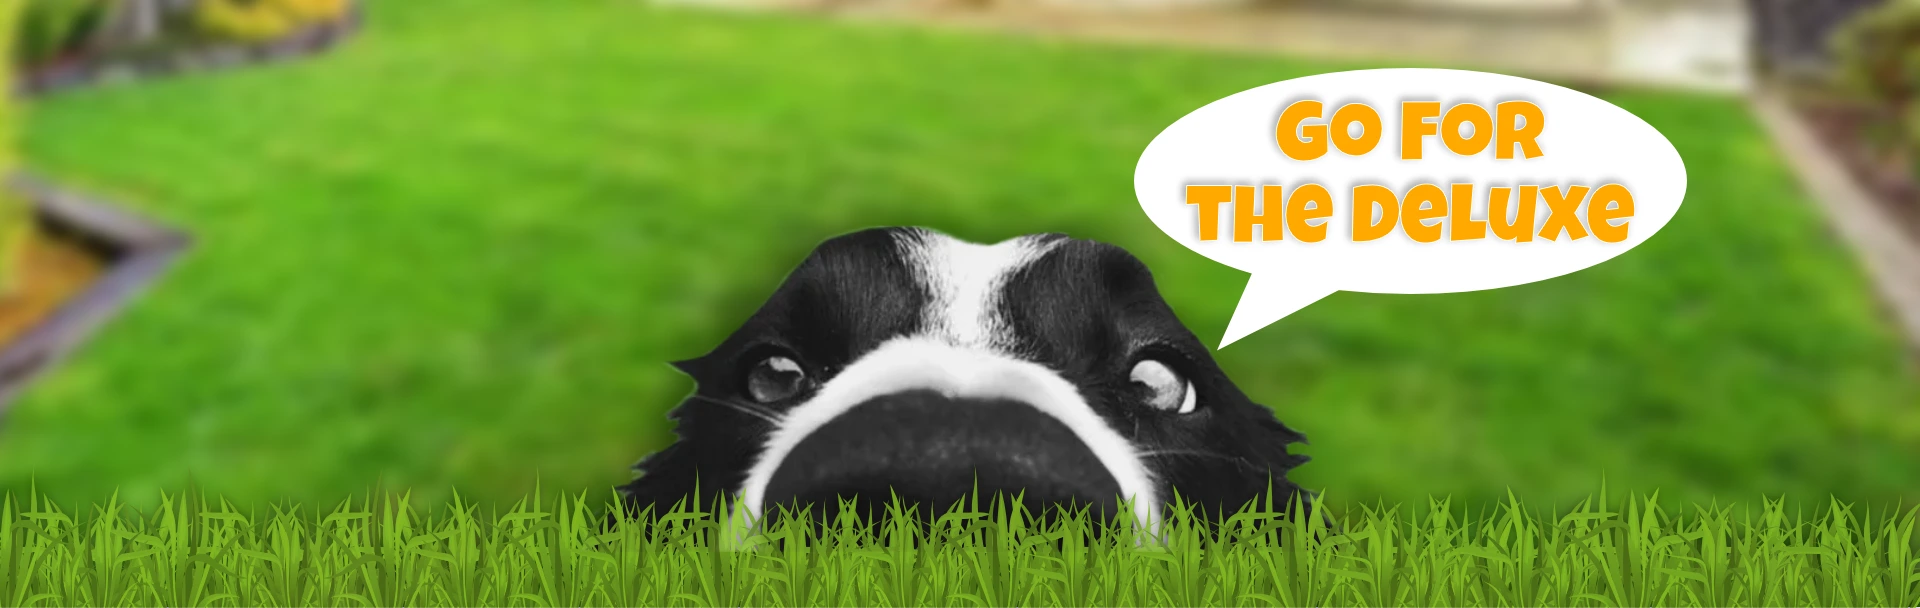
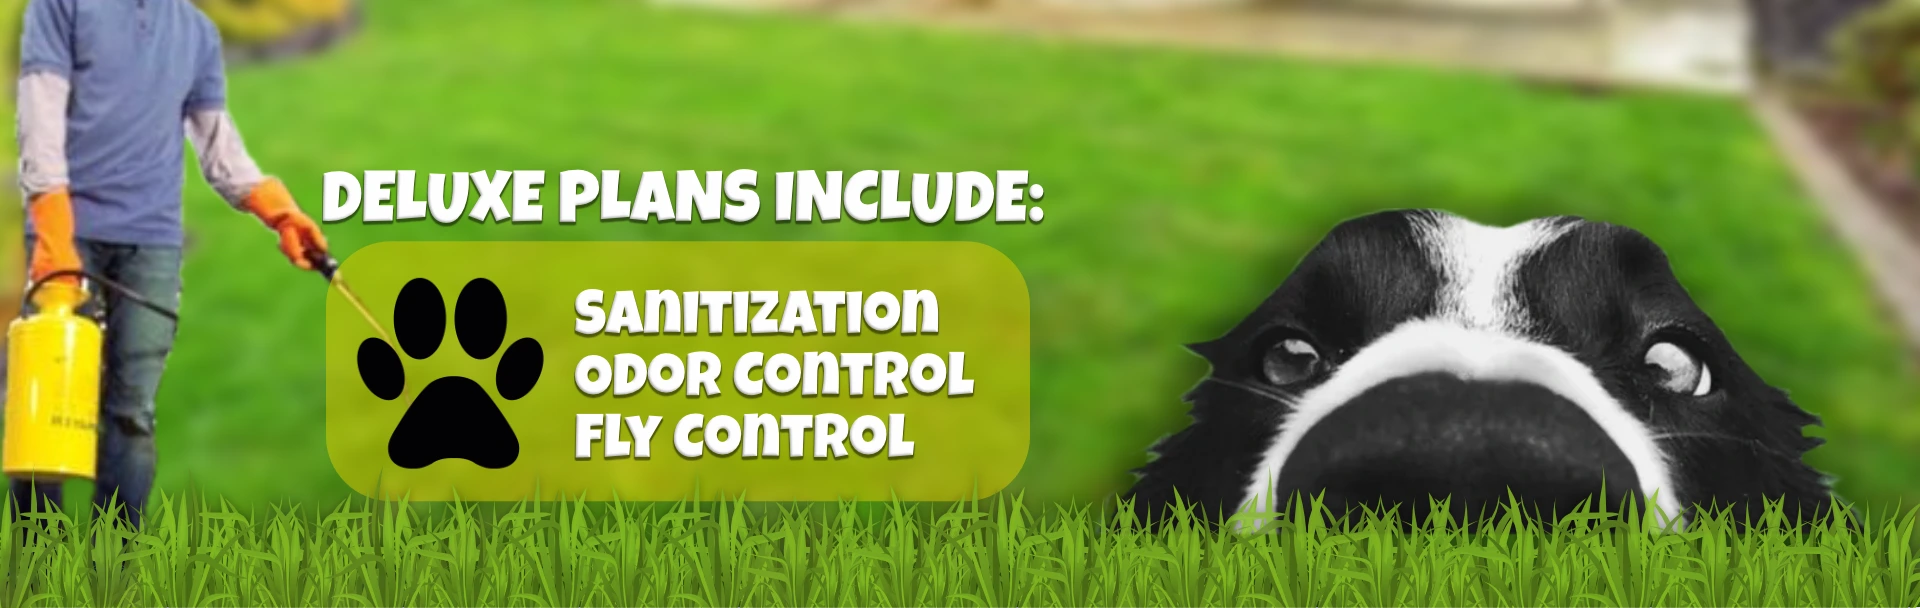
pricing

diff --git a/src/pages/xl-packages.js b/src/pages/xl-packages.js
@@ -14,7 +14,7 @@ import { AiOutlineAudioMuted } from 'react-icons/ai';
 import { StaticImage } from "gatsby-plugin-image"
 import { Helmet } from "react-helmet"
 
-const PricePage = () => {
+const XLPage = () => {
   const { language, featureOptions, proOptions  } = useSiteMetadata();
   const { showSocial } = featureOptions
   const { showProfile } = proOptions
@@ -179,7 +179,7 @@ const PricePage = () => {
   return (
     <Layout className="page">
       <Helmet>
-        <body id="body" className="utilitypage" />
+        <body id="body" className="install" />
       </Helmet>
       <Seo title={frontmatter.title} description={excerpt} />
 
@@ -331,8 +331,7 @@ style={{height:'auto', width:'100dvw', maxHeight:'100dvh', position:'relative', 
 /> */}
 
 
-
-<StaticImage src="../../static/assets/dogpoopers-nosey-deluxe-header.webp" alt="Default Image" style={{height:'auto', width:'100dvw', maxHeight:'100dvh', position:'relative', zIndex:'1', top:'0', left:'0', right:'0', border:'0px solid #888 !important', objectFit:'contain', margin:'0', zIndex:'0'}} />
+<StaticImage src="../../static/assets/dogpoopers-xl-header.webp" alt="Default Image" style={{height:'auto', width:'100dvw', maxHeight:'100dvh', position:'relative', zIndex:'1', top:'0', left:'0', right:'0', border:'0px solid #888 !important', objectFit:'contain', margin:'0'}} />
 
 
 <section id="SecondaryInfo" order="6" className="nameblock" style={{margin:'0 auto 10vh auto', padding:'1% 4%',alignContent:'center', display:'flex', textAlign:'left', justifyContent:'center', verticalAlign:'center', }}>
@@ -360,14 +359,6 @@ style={{height:'auto', width:'100dvw', maxHeight:'100dvh', position:'relative', 
               </div> */}
 
 
-
-
-
-
-
-
-
-
 <h2 id="costs" className="letter" style={{fontSize:'240%', textAlign:'center'}}>Choose Your Plan:</h2>
 <p style={{fontSize:'150%', textAlign:'center'}}>
   Cancel anytime - <u>NO</u> contracts required.
@@ -375,70 +366,10 @@ style={{height:'auto', width:'100dvw', maxHeight:'100dvh', position:'relative', 
 
 
 
-<p style={{fontSize:'150%', textAlign:'center'}}>
-  <strong>Standard Packages</strong>: 1-2 Dogs, Up to 1/4 Acre Yard 
-</p> 
 
 
 
-{/* First row */}
-<div className="flexbutt hover" style={{display:'flex', padding:'0', gap:'20px', color:'#fff'}}>
 
-<div className="flexcheek" style={{width:'33%', background: 'rgba(0,0,0,0.60)', padding:'1rem 2rem ', backdropFilter: 'blur(4px)', border:'10px double var(--theme-ui-colors-siteColor)', borderRadius:'12px', textAlign:'', alignSelf:'', }}>
-<h3 className="vartext letter" style={{color:'#fff', fontWeight:'700', fontSize:'130%', textAlign:'center'}}>One-Time Service</h3>
-<div style={{}}>A Dog Pooper technician walks and cleans your yard <strong className="highlight">once</strong>. 
-  <br />
-{/* Pay only when your site uses a LOT of data.<br />  */}
- <br />
- <div style={{textDecoration:'underline', textAlign:'center'}}>
-  <a className="button" style={{color:'#fff', fontWeight:'700'}} href="https://www.paypal.com/webapps/billing/plans/subscribe?plan_id=P-8NG870567P558582PMZN6LVQ" target="_blank" rel="noreferrer" > <strong className="highlight" style={{color:'#fff', fontWeight:'700'}}> Order Now</strong></a>
-  
-  <br /> <strong style={{color:'yellow'}}>(Deluxe Included)</strong>
-  <br />
-  </div>
- </div>
-<p style={{textDecoration:'', textAlign:'center', margin:'1rem 0'}}><strong className="highlight" >$39.99</strong> One Time</p>
-</div>
-
-<div className="flexcheek" style={{width:'33%', background: 'rgba(0,0,0,0.60)', padding:'1rem 2rem ', backdropFilter: 'blur(4px)', border:'10px double var(--theme-ui-colors-siteColorText)', borderRadius:'12px', textAlign:'', alignSelf:'', }}>
-<h3 className="vartext letter" style={{color:'#fff', fontWeight:'700', fontSize:'130%', textAlign:'center'}}>Weekly</h3>
-
-<div style={{}}>A Dog Pooper technician walks and cleans your yard <strong className="highlight">once per week</strong>. 
-  <br />
-<br />
-
- <div style={{textDecoration:'underline', textAlign:'center',}}>
-  <a className="button" href="https://www.paypal.com/webapps/billing/plans/subscribe?plan_id=P-8NG870567P558582PMZN6LVQ" target="_blank" rel="noreferrer" > <strong className="highlight" style={{color:'#fff'}}> Order Now</strong></a>
-  <br />
-  <a className="" href="https://www.paypal.com/webapps/billing/plans/subscribe?plan_id=P-8NG870567P558582PMZN6LVQ" target="_blank" rel="noreferrer" > <strong className="highlight" style={{color:'yellow'}}> Get Deluxe (only $4.99 more)</strong></a>
-  </div>
-
-  <p style={{textDecoration:'', textAlign:'center', margin:'1rem 0'}}><strong className="highlight" >$29.99</strong> per week</p>
-  
- </div>
-
-</div>
-
-<div className="flexcheek" style={{width:'33%', background: 'rgba(0,0,0,0.60)', padding:'1rem 2rem ', backdropFilter: 'blur(4px)', border:'10px double var(--theme-ui-colors-siteColor)', borderRadius:'12px', textAlign:'', alignSelf:'', }}>
-<h3 className="vartext letter" style={{color:'#fff', fontWeight:'700', fontSize:'130%', textAlign:'center'}}>Twice Weekly</h3>
-<div style={{}}>A Dog Pooper technician walks and cleans your yard <strong className="highlight">twice per week</strong>. 
-  <br />
-<br />
-
- <div style={{textDecoration:'underline', textAlign:'center'}}>
-  <a className="button" href="https://www.paypal.com/webapps/billing/plans/subscribe?plan_id=P-8NG870567P558582PMZN6LVQ" target="_blank" rel="noreferrer" > <strong className="highlight" style={{color:'#fff', fontWeight:'700', fontSize:'', textAlign:'center'}}> Order Now</strong></a>
-  <br />
-  <a className="" href="https://www.paypal.com/webapps/billing/plans/subscribe?plan_id=P-8NG870567P558582PMZN6LVQ" target="_blank" rel="noreferrer" > <strong className="highlight" style={{color:'yellow'}}> Get Deluxe (only $4.99 more)</strong></a>
-  </div>
-
-  <p style={{textDecoration:'', textAlign:'center', margin:'1rem 0'}}><strong className="highlight" >$49.99</strong> per week</p>
-
- </div>
-</div>
-
-
-
-</div>
 
 
 <br />
@@ -468,7 +399,7 @@ style={{height:'auto', width:'100dvw', maxHeight:'100dvh', position:'relative', 
 <p style={{textDecoration:'', textAlign:'center', margin:'1rem 0'}}><strong className="highlight" >$49.99</strong> One Time</p>
 </div>
 
-<div className="flexcheek" style={{width:'33%', background: 'rgba(0,0,0,0.60)', padding:'1rem 2rem ', backdropFilter: 'blur(4px)', border:'10px double var(--theme-ui-colors-siteColor)', borderRadius:'12px', textAlign:'', alignSelf:'', }}>
+<div className="flexcheek" style={{width:'33%', background: 'rgba(0,0,0,0.60)', padding:'1rem 2rem ', backdropFilter: 'blur(4px)', border:'10px double var(--theme-ui-colors-siteColorText)', borderRadius:'12px', textAlign:'', alignSelf:'', }}>
 <h3 className="vartext letter" style={{color:'#fff', fontWeight:'700', fontSize:'130%', textAlign:'center'}}>(XL) Weekly</h3>
 
 <div style={{}}>A Dog Pooper technician walks and cleans your yard <strong className="highlight">once per week</strong>. 
@@ -551,23 +482,13 @@ style={{height:'auto', width:'100dvw', maxHeight:'100dvh', position:'relative', 
 
 
 
-<section id="" order="" className="nameblock" style={{margin:'0 auto 10vh auto', padding:'1% 4%',alignContent:'center', display:'flex', textAlign:'left', justifyContent:'center', verticalAlign:'center', }}>
-
-
-      <div className="container" style={{padding: '0 3%', color:''}}>
-
-<div style={{position:'', top:'', zIndex:''}}>
-<p className="font" style={{fontSize:'300%', textAlign:'center', color:'yellow'}}>Our Deluxe plans offer </p>
-<p>Our Stain Remover &amp; Odor Suppressant Treatment is an environmentally-friendly solution used to freshen your lawn and yard.
-</p>
-
- <p>It is an animal safe, 100% organic spray, formulated to remove stains and eliminate ammonia and odors emitted from pet urine and feces. Left untreated, these odors can result in health problems for animals and humans alike.</p>
-</div>
 
 
 
-</div>
-</section>
+
+
+
+
 
 
 
@@ -829,4 +750,4 @@ style={{height:'auto', width:'100dvw', maxHeight:'100dvh', position:'relative', 
   )
 }
 
-export default PricePage
+export default XLPage

diff --git a/src/templates/index-page.js b/src/templates/index-page.js
@@ -669,9 +669,9 @@ style={{height:'auto', width:'100dvw', maxHeight:'100dvh', position:'relative', 
     ""
   )}
   <div style={{display:'flex', justifyContent:'center', alignItems:'center'}}>
-<Link state={{modal: true}} to="install" className="button print" style={{ display: 'flex', justifyContent: 'center', padding:'1.5vh 1vw', maxWidth:'250px', }}>1 or 2 dogs</Link>
+<Link state={{modal: true}} to="install" className="button print" style={{ display: 'flex', justifyContent: 'center', padding:'1.5vh 1vw', maxWidth:'250px', fontSize:'130%' }}>1 or 2 dogs</Link>
 -OR-
-    <Link state={{modal: true}} to="about" className="button print" style={{ display: 'flex', justifyContent: 'center', padding:'1.5vh 1vw', maxWidth:'250px', }}>3 or more</Link>
+    <Link state={{modal: true}} to="xl-packages" className="button print" style={{ display: 'flex', justifyContent: 'center', padding:'1.5vh 1vw', maxWidth:'250px',fontSize:'130%' }}>3 or more</Link>
 </div>
 
   {showSocial ? (
